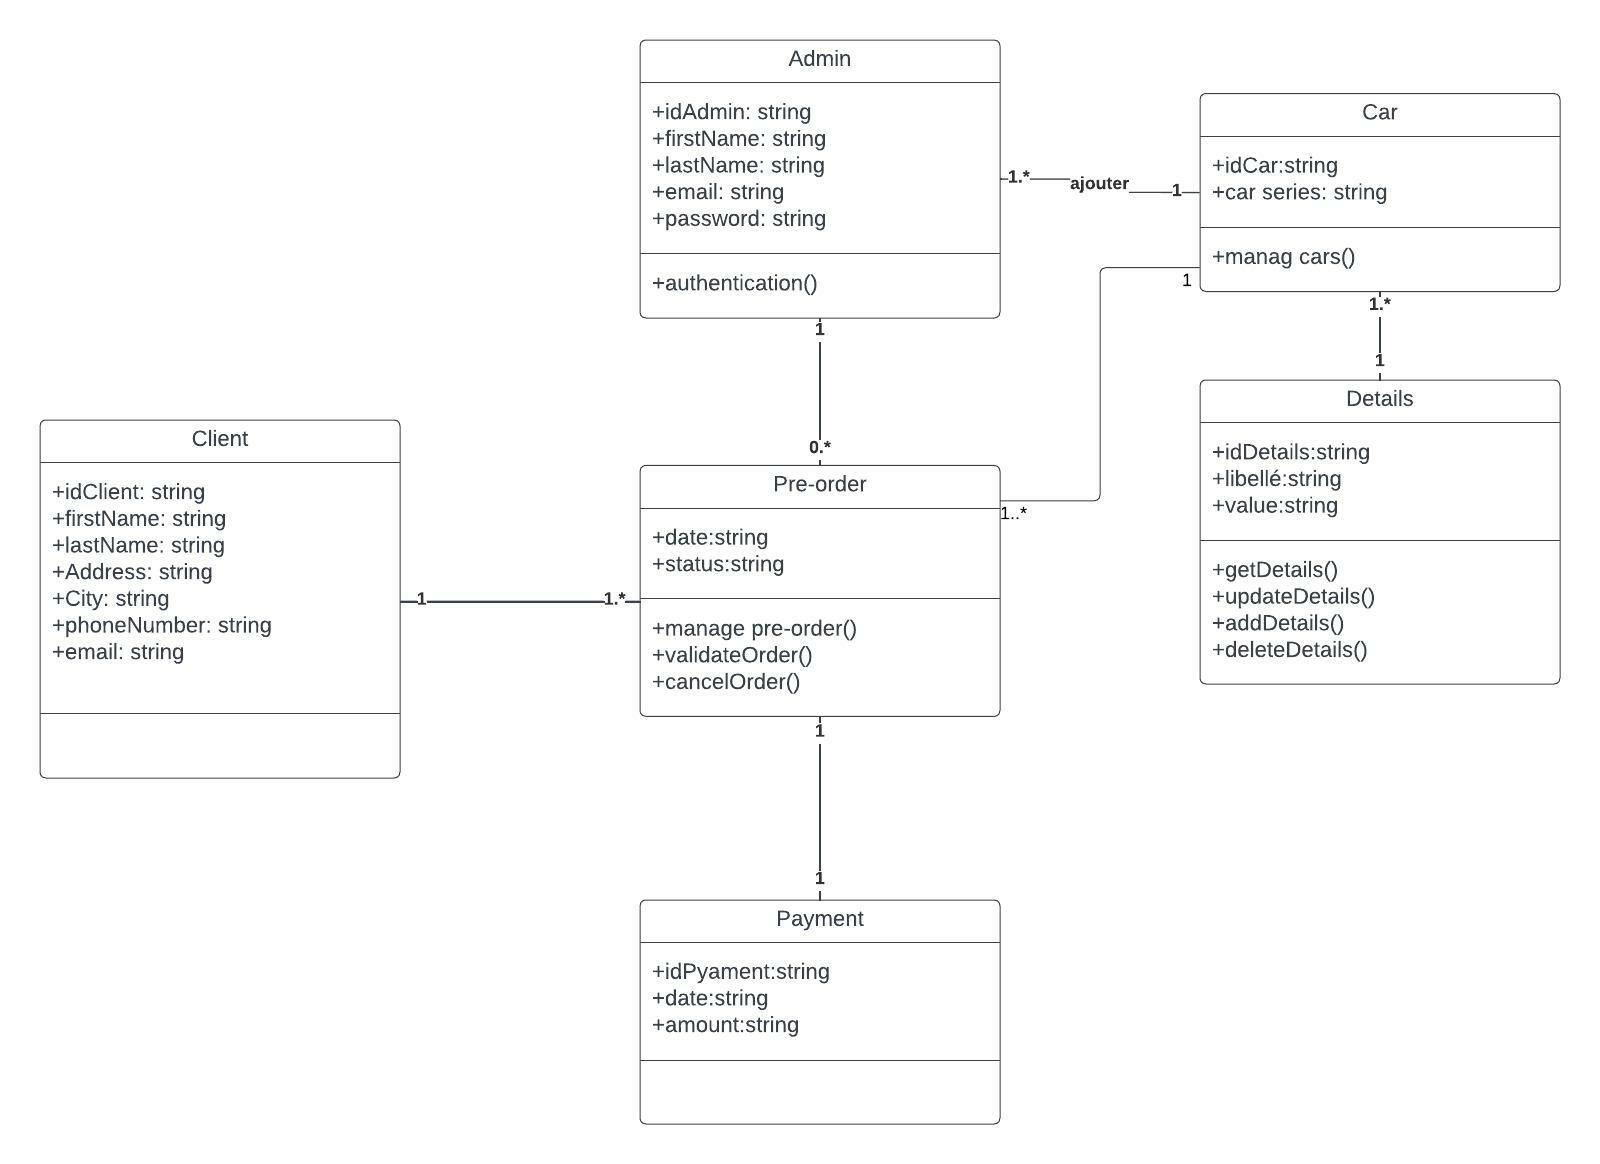
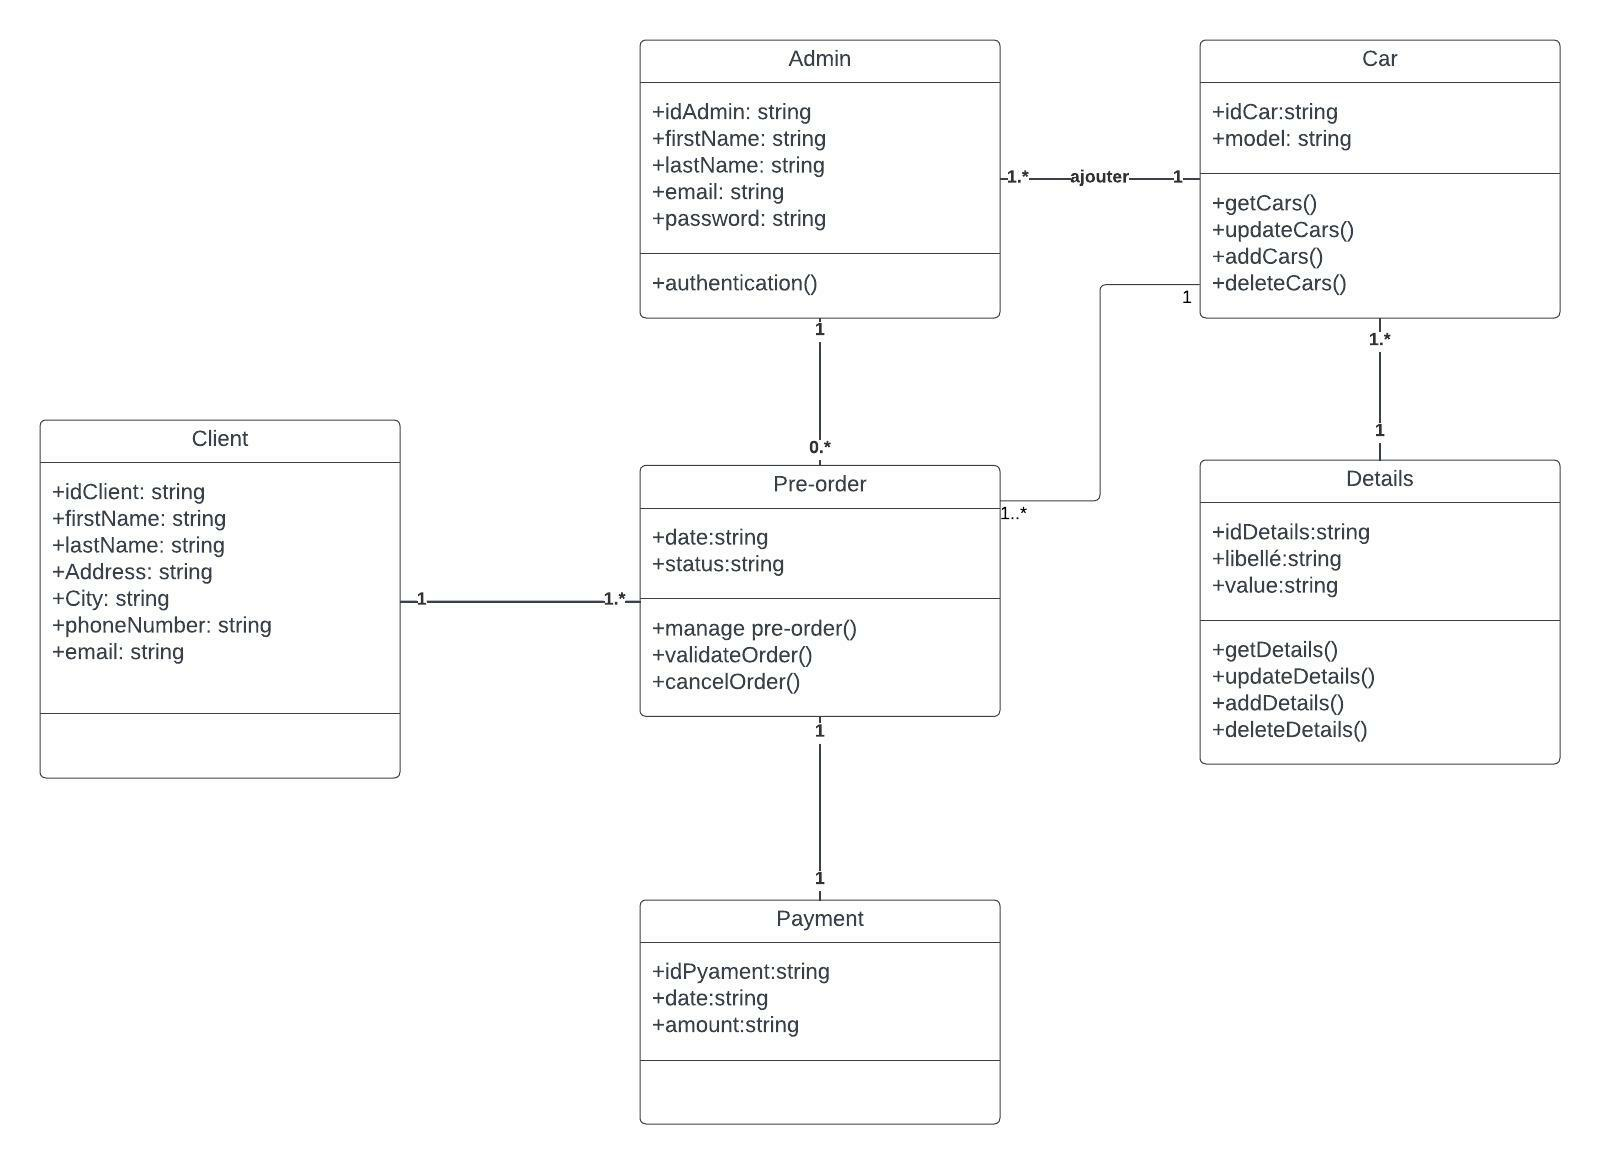
add cat schema

Changed region(s): [[0.75, 0.3093, 0.875, 0.6495], [0.6562, 0.0619, 0.9688, 0.2784], [0.8438, 0.0309, 0.875, 0.0619]]

diff --git a/code/server/api/models/carModel.js b/code/server/api/models/carModel.js
@@ -1,6 +1,9 @@
-const  mongoose = require("mongoose");
+const mongoose = require("mongoose");
 
-const carSchema = mongoose.Schema(
-    {
-    })
-module.exports = mongoose.model("Car", carSchema)
+const carSchema = mongoose.Schema({
+  model: {
+    type: String,
+    required: [true, "Please enter your value"],
+  },
+});
+module.exports = mongoose.model("Car", carSchema);
